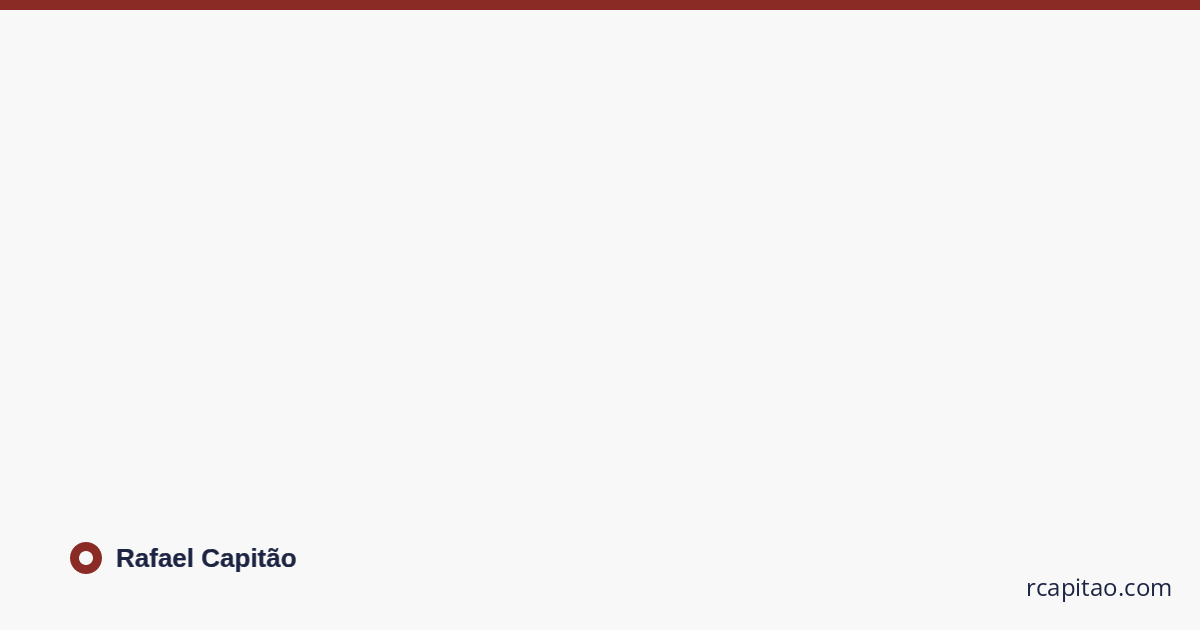
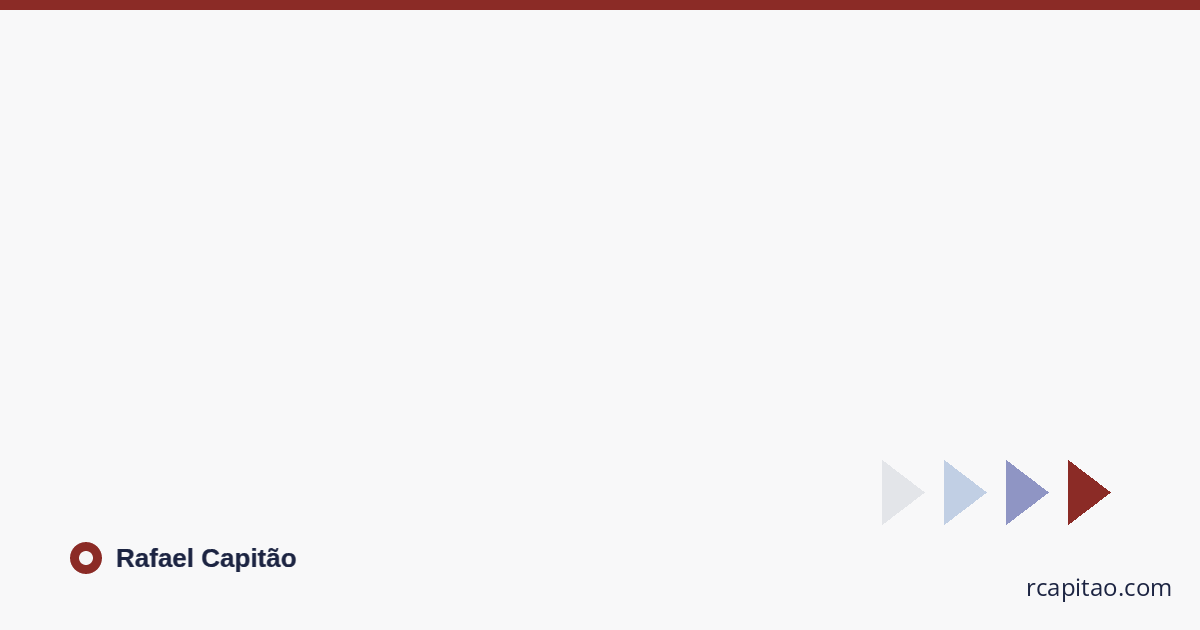
Adiciona motivo de chevrons na capa do OpenGraph (#134)
Elemento decorativo em degradê (lilás > frost > aurora > brick) no
espaço livre entre o texto dinâmico e o rodapé, e alinha a cor da
descrição com a paleta Oslo (8F95C4).

Claude-Session: https://claude.ai/code/session_01PcMcEvcEuB3MFn44tCuMZJ

Changed region(s): [[0.7708, 0.7238, 0.925, 0.8444]]

diff --git a/layouts/partials/og-image.html b/layouts/partials/og-image.html
@@ -47,7 +47,7 @@
         "x" 70
         "y" (add $descTop (mul $i $descLineHeight))
         "size" $descSize
-        "color" "4E4E55"
+        "color" "8F95C4"
         "font" $font
         "linespacing" 10
       ))
